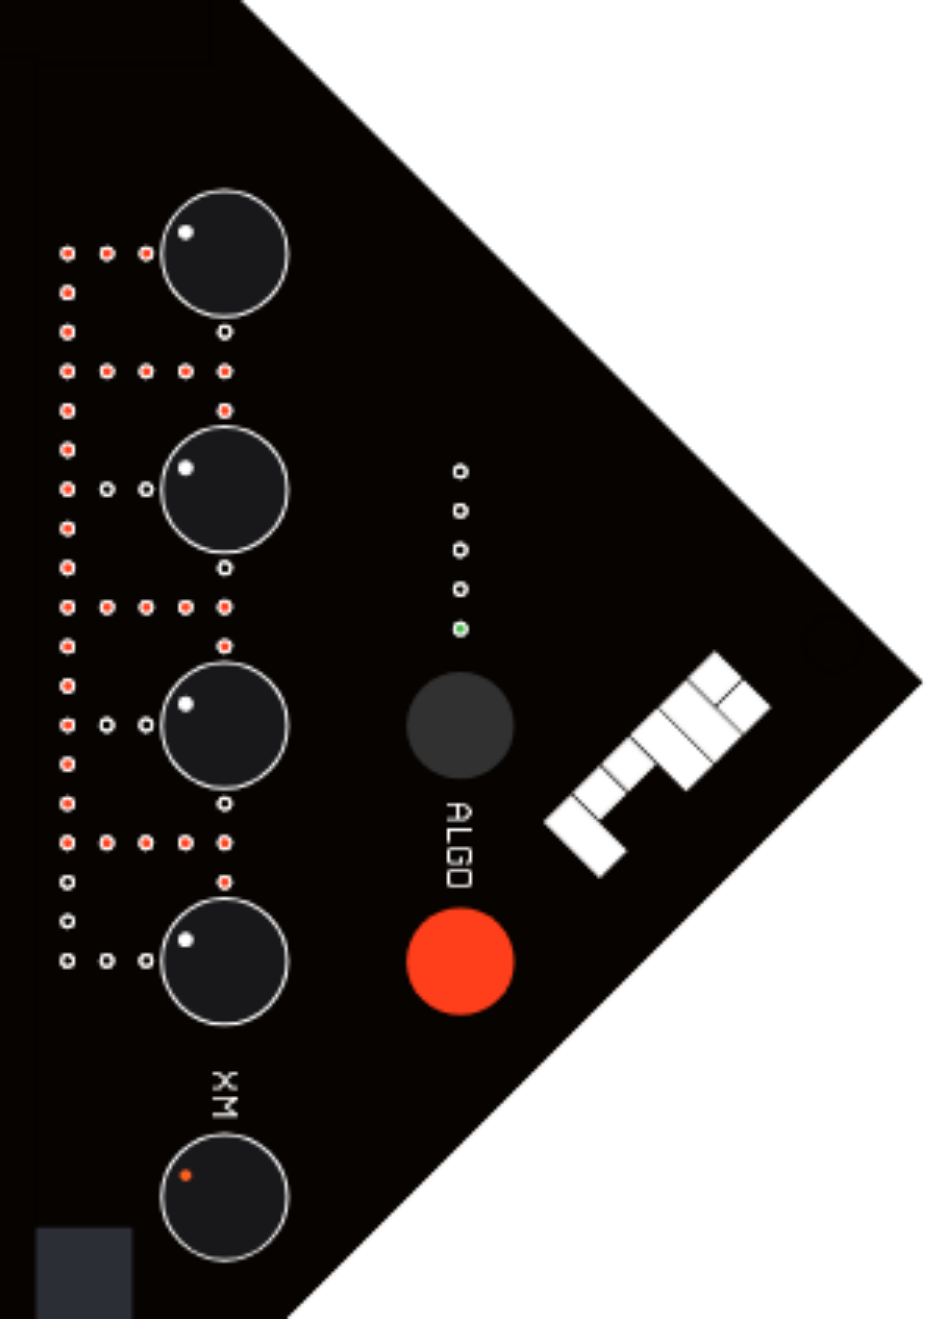
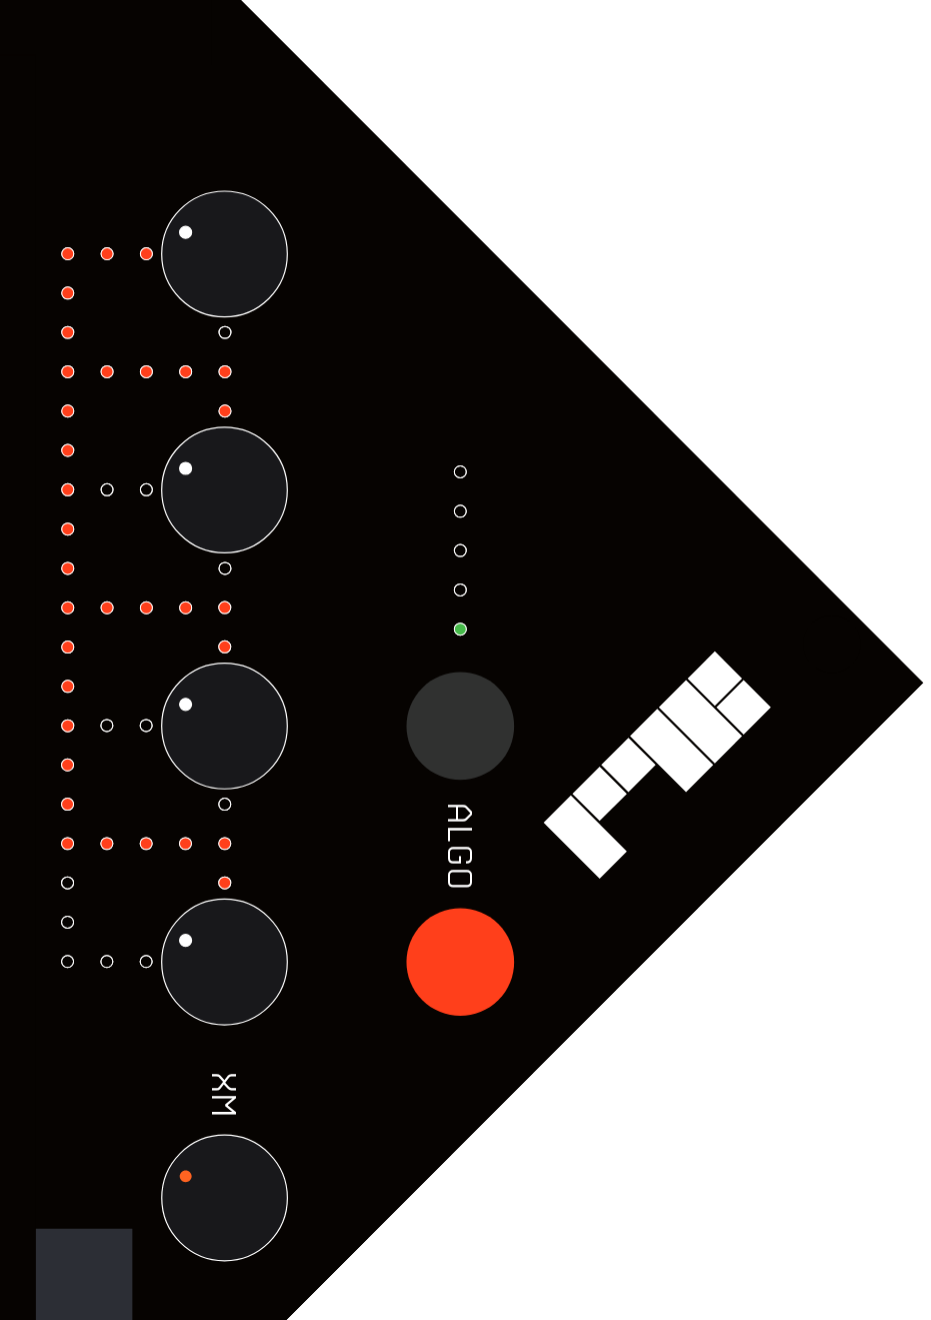
fix: re-render ryk-algo at full 300 DPI resolution
Render PDF pages at viewport scale 3.13x (300/96 DPI) directly in pdfjs
canvas instead of relying on deviceScaleFactor upscaling.

diff --git a/scripts/pdf-render-browser.js b/scripts/pdf-render-browser.js
@@ -66,7 +66,7 @@ async function renderPages() {
 
   const browser = await chromium.launch();
   const context = await browser.newContext({
-    deviceScaleFactor: SCALE,
+    deviceScaleFactor: 1,
   });
   const page = await context.newPage();
 
@@ -99,17 +99,22 @@ async function renderPages() {
   console.log(`Pages: ${totalPages}`);
 
   for (let i = 1; i <= totalPages; i++) {
-    await page.evaluate(async (pageNum) => {
-      const pg = await window._doc.getPage(pageNum);
-      const viewport = pg.getViewport({ scale: 1 });
-      const canvas = document.getElementById('canvas');
-      canvas.width = viewport.width;
-      canvas.height = viewport.height;
-      const ctx = canvas.getContext('2d');
-      ctx.fillStyle = 'white';
-      ctx.fillRect(0, 0, canvas.width, canvas.height);
-      await pg.render({ canvasContext: ctx, viewport }).promise;
-    }, i);
+    await page.evaluate(
+      async ({ pageNum, scale }) => {
+        const pg = await window._doc.getPage(pageNum);
+        const viewport = pg.getViewport({ scale });
+        const canvas = document.getElementById('canvas');
+        canvas.width = viewport.width;
+        canvas.height = viewport.height;
+        canvas.style.width = viewport.width + 'px';
+        canvas.style.height = viewport.height + 'px';
+        const ctx = canvas.getContext('2d');
+        ctx.fillStyle = 'white';
+        ctx.fillRect(0, 0, canvas.width, canvas.height);
+        await pg.render({ canvasContext: ctx, viewport }).promise;
+      },
+      { pageNum: i, scale: SCALE },
+    );
 
     const canvas = page.locator('#canvas');
     const pageNum = String(i).padStart(3, '0');
